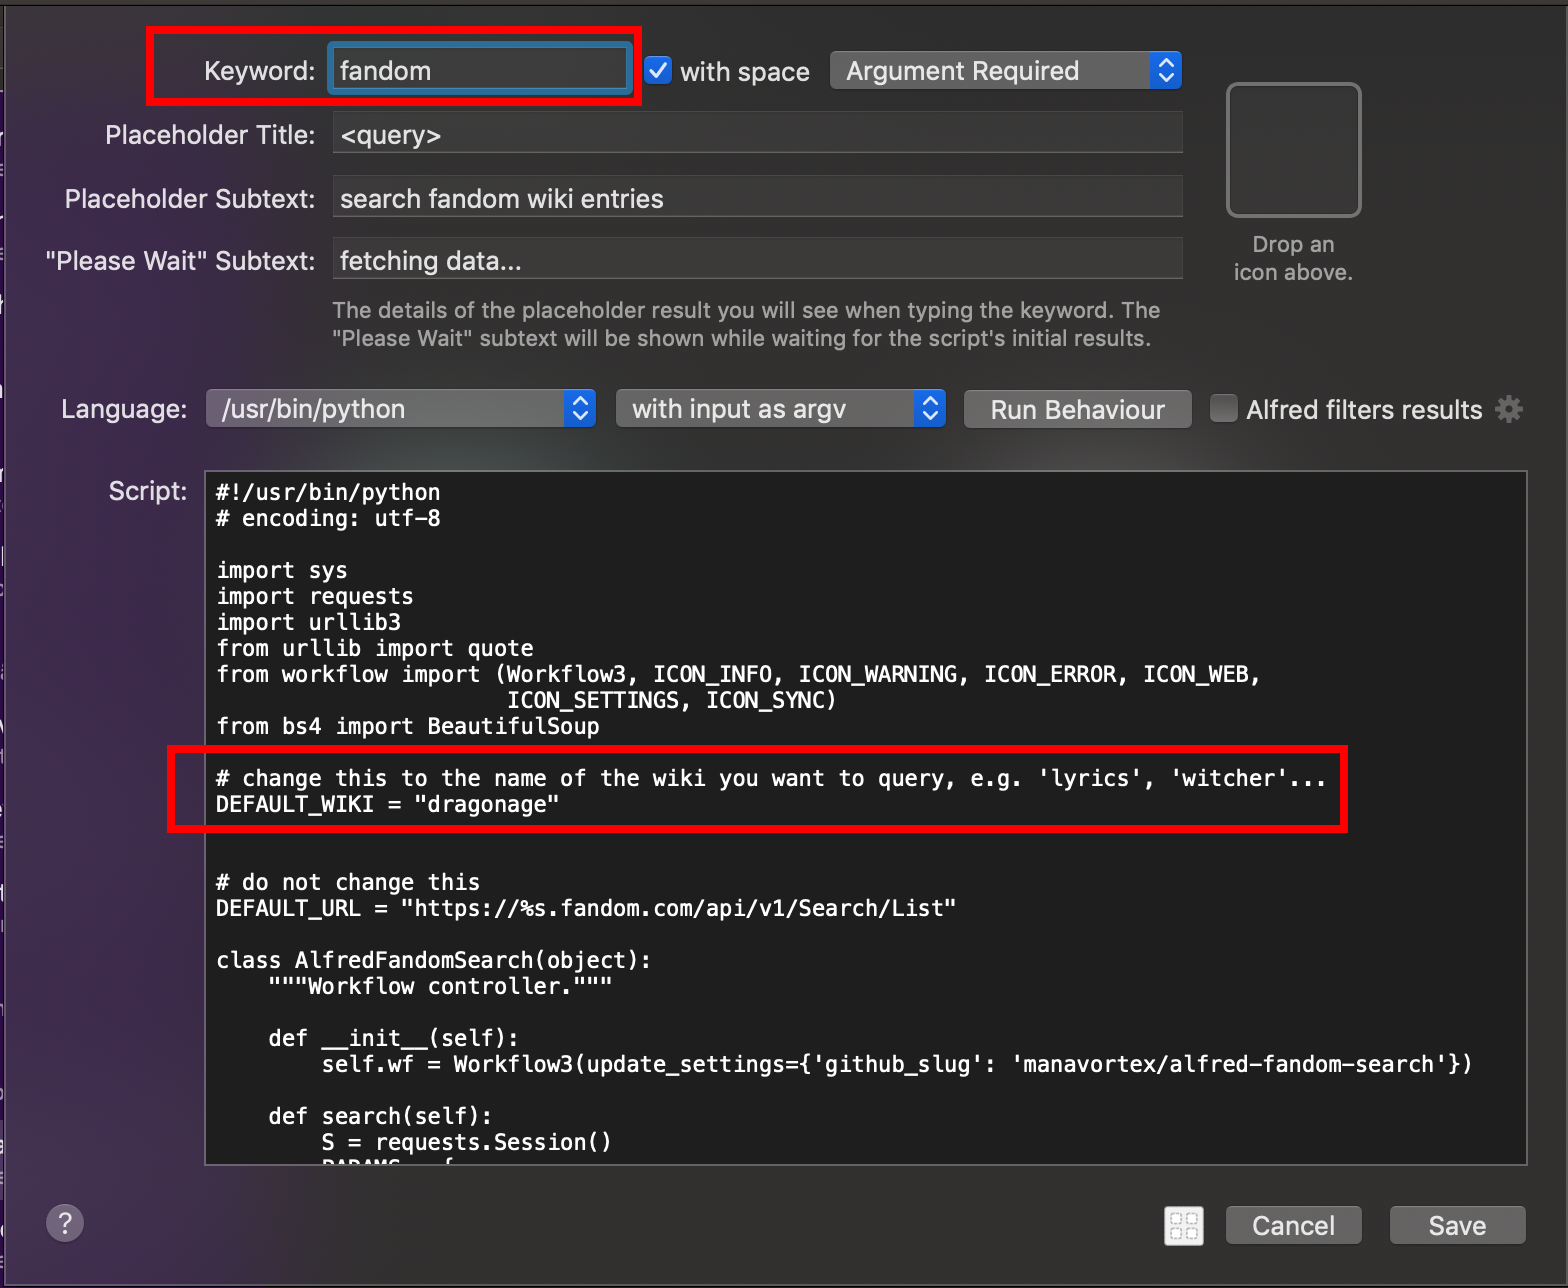
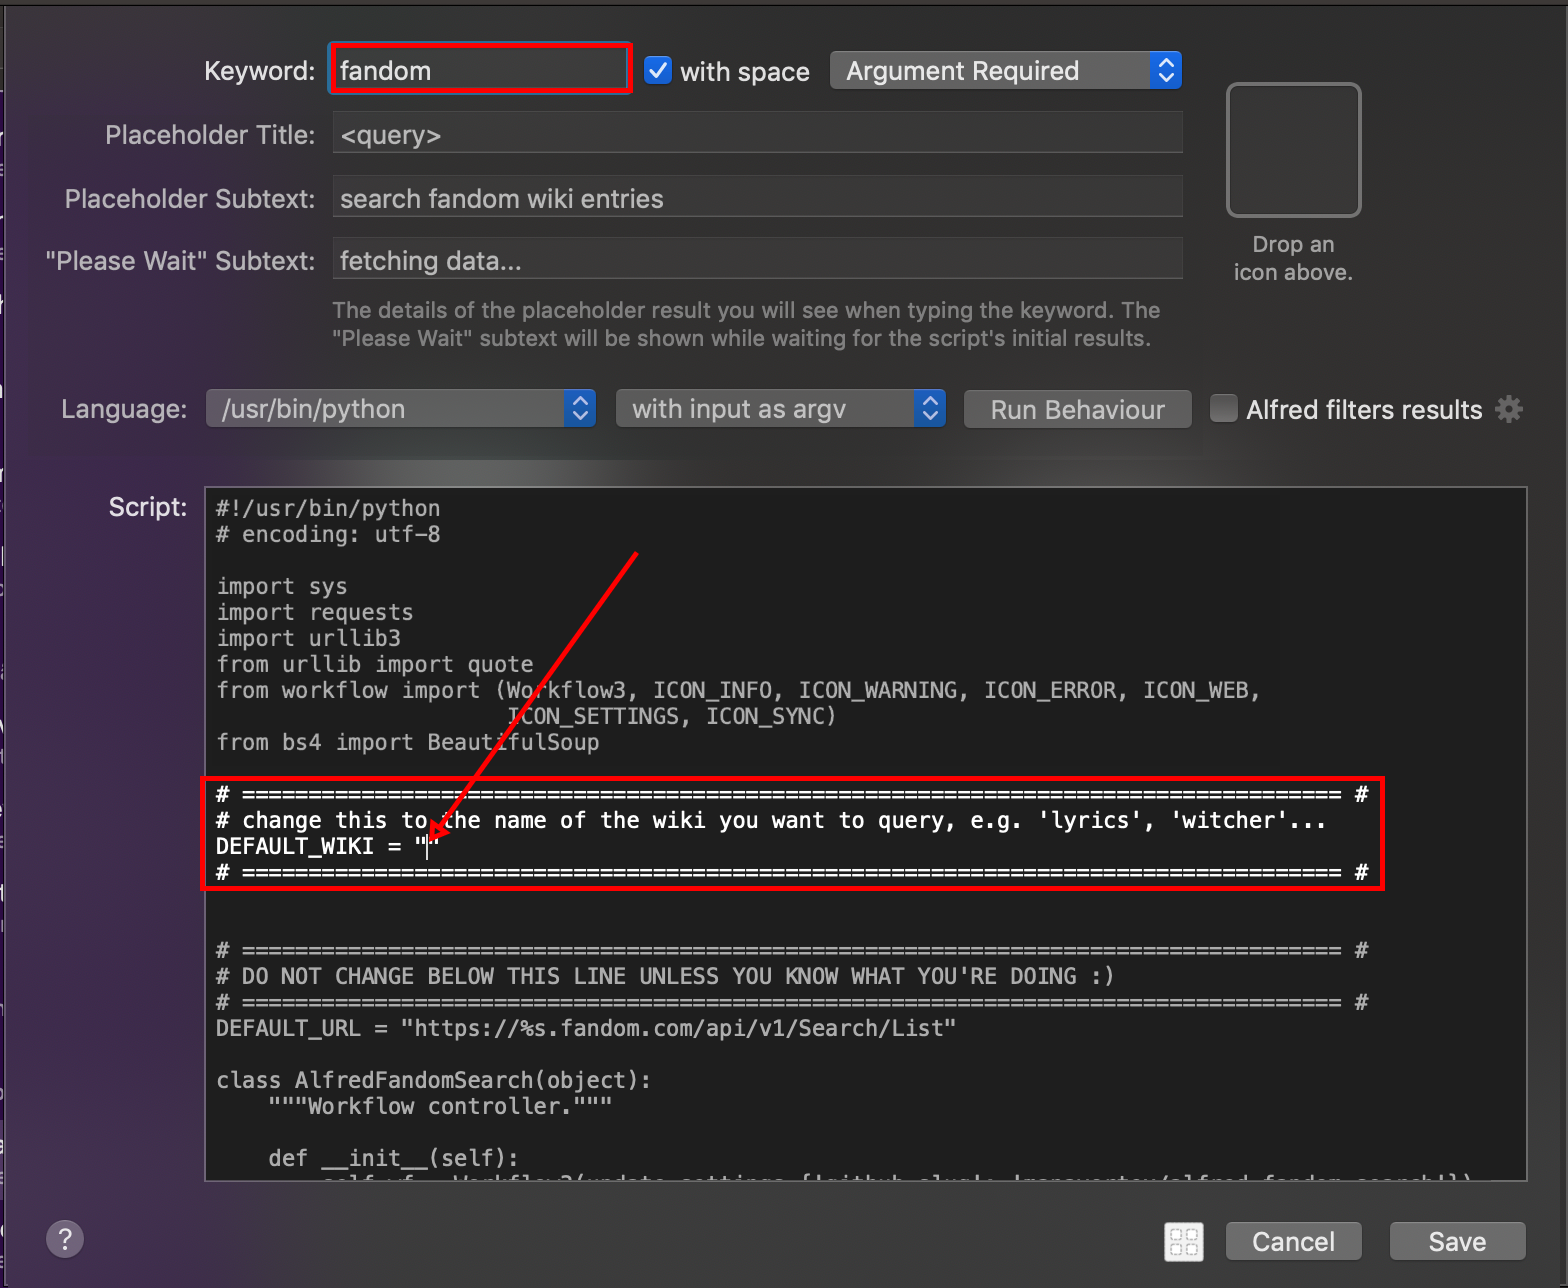
added further documentation

diff --git a/00_runme.py b/00_runme.py
@@ -4,13 +4,17 @@
 import sys 
 import requests 
 import urllib3
+import json
 from urllib import quote
 from workflow import (Workflow3, ICON_INFO, ICON_WARNING, ICON_ERROR, ICON_WEB,
                       ICON_SETTINGS, ICON_SYNC)
 from bs4 import BeautifulSoup
 
+# change this to the name of the wiki you want to query, e.g. 'lyrics', 'witcher'...
+DEFAULT_WIKI = ""
 
 
+# do not change this
 DEFAULT_URL = "https://%s.fandom.com/api/v1/Search/List"
 
 class AlfredFandomSearch(object):
@@ -19,19 +23,10 @@ class AlfredFandomSearch(object):
     def __init__(self):
         self.wf = Workflow3(update_settings={'github_slug': 'manavortex/alfred-fandom-search'})
 
-    def getUrl(self):  
-        if not self.wf.settings or not self.wf.settings[u'url']:            
-            return ""
-        return self.wf.settings[u'url']
-
     def search(self):
-        if self.url == "": 
-            self.wf.add_item("Set default wiki", subtitle="call fandomset <yourwiki>")#, icon=header_image_url, icontype='path')
-            return {}
-
         S = requests.Session()
         PARAMS = {
-            "action": "query",
+            "action": sys.argv[1],
             "format": "json",
             "limit": "10",
             "batches": "1",
@@ -47,15 +42,25 @@ class AlfredFandomSearch(object):
         """Run workflow."""
         
         args = self.wf.args # check for magic args
-        searchResults = {}
+        
+        if DEFAULT_WIKI == "": 
+            self.wf.add_item(
+                "Error: DEFAULT_URL in script filter not set", 
+                subtitle="press enter to see readme", 
+                arg="https://github.com/manavortex/alfred-fandom-search/blob/master/README.md", 
+                valid=True
+            )
+            self.wf.send_feedback()
+            return
 
+        searchResults = {}
         try: 
             query = self.wf.decode(args[0])            
             self.query = quote(query)
-            self.url = DEFAULT_URL % self.getUrl()
+            self.url = DEFAULT_URL % DEFAULT_WIKI
             searchResults = self.search()
         except IndexError: 
-            searchResults = {}      
+            searchResults = {}
         
         for result in searchResults:
 
@@ -74,6 +79,7 @@ class AlfredFandomSearch(object):
             
         self.wf.send_feedback()
         
+
 
 if __name__ == '__main__':
 
